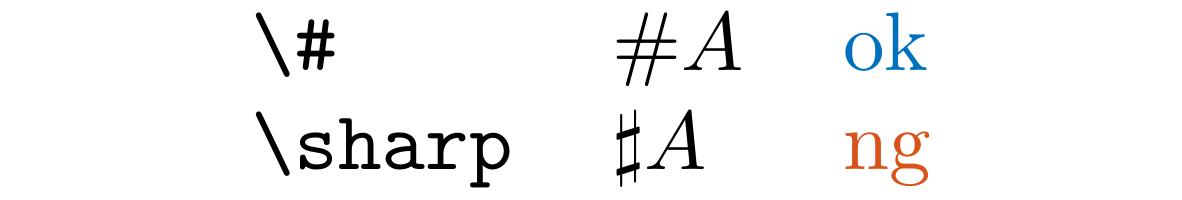
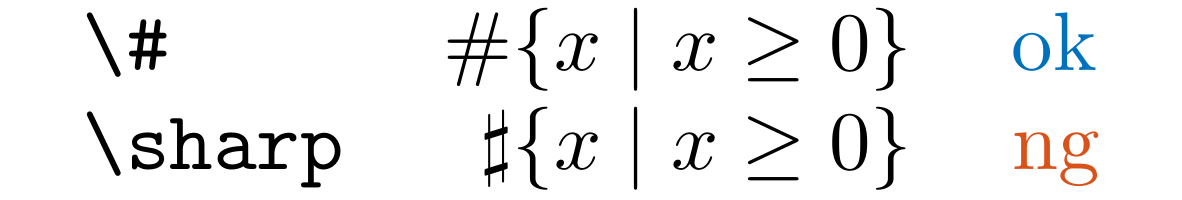
Update LLSharp rules and examples for improved clarity and correctness

diff --git a/rules/LLSharp/LLSharp.tex b/rules/LLSharp/LLSharp.tex
@@ -19,10 +19,10 @@
 
 \begin{document}
 \begin{table}[h]
-    \centering
-    \begin{tabular}{lll}
-        \verb|\#|     & $\#A$      & \tA{ok} \\
-        \verb|\sharp| & $\sharp A$ & \tD{ng}
-    \end{tabular}
+	\centering
+	\begin{tabular}{lll}
+		\verb|\#|     & $\#\{ x \mid x \geq 0 \}$                      & \tA{ok} \\
+		\verb|\sharp| & \hspace{0.11em} $\sharp \{ x \mid x \geq 0 \}$ & \tD{ng} \\
+	\end{tabular}
 \end{table}
 \end{document}